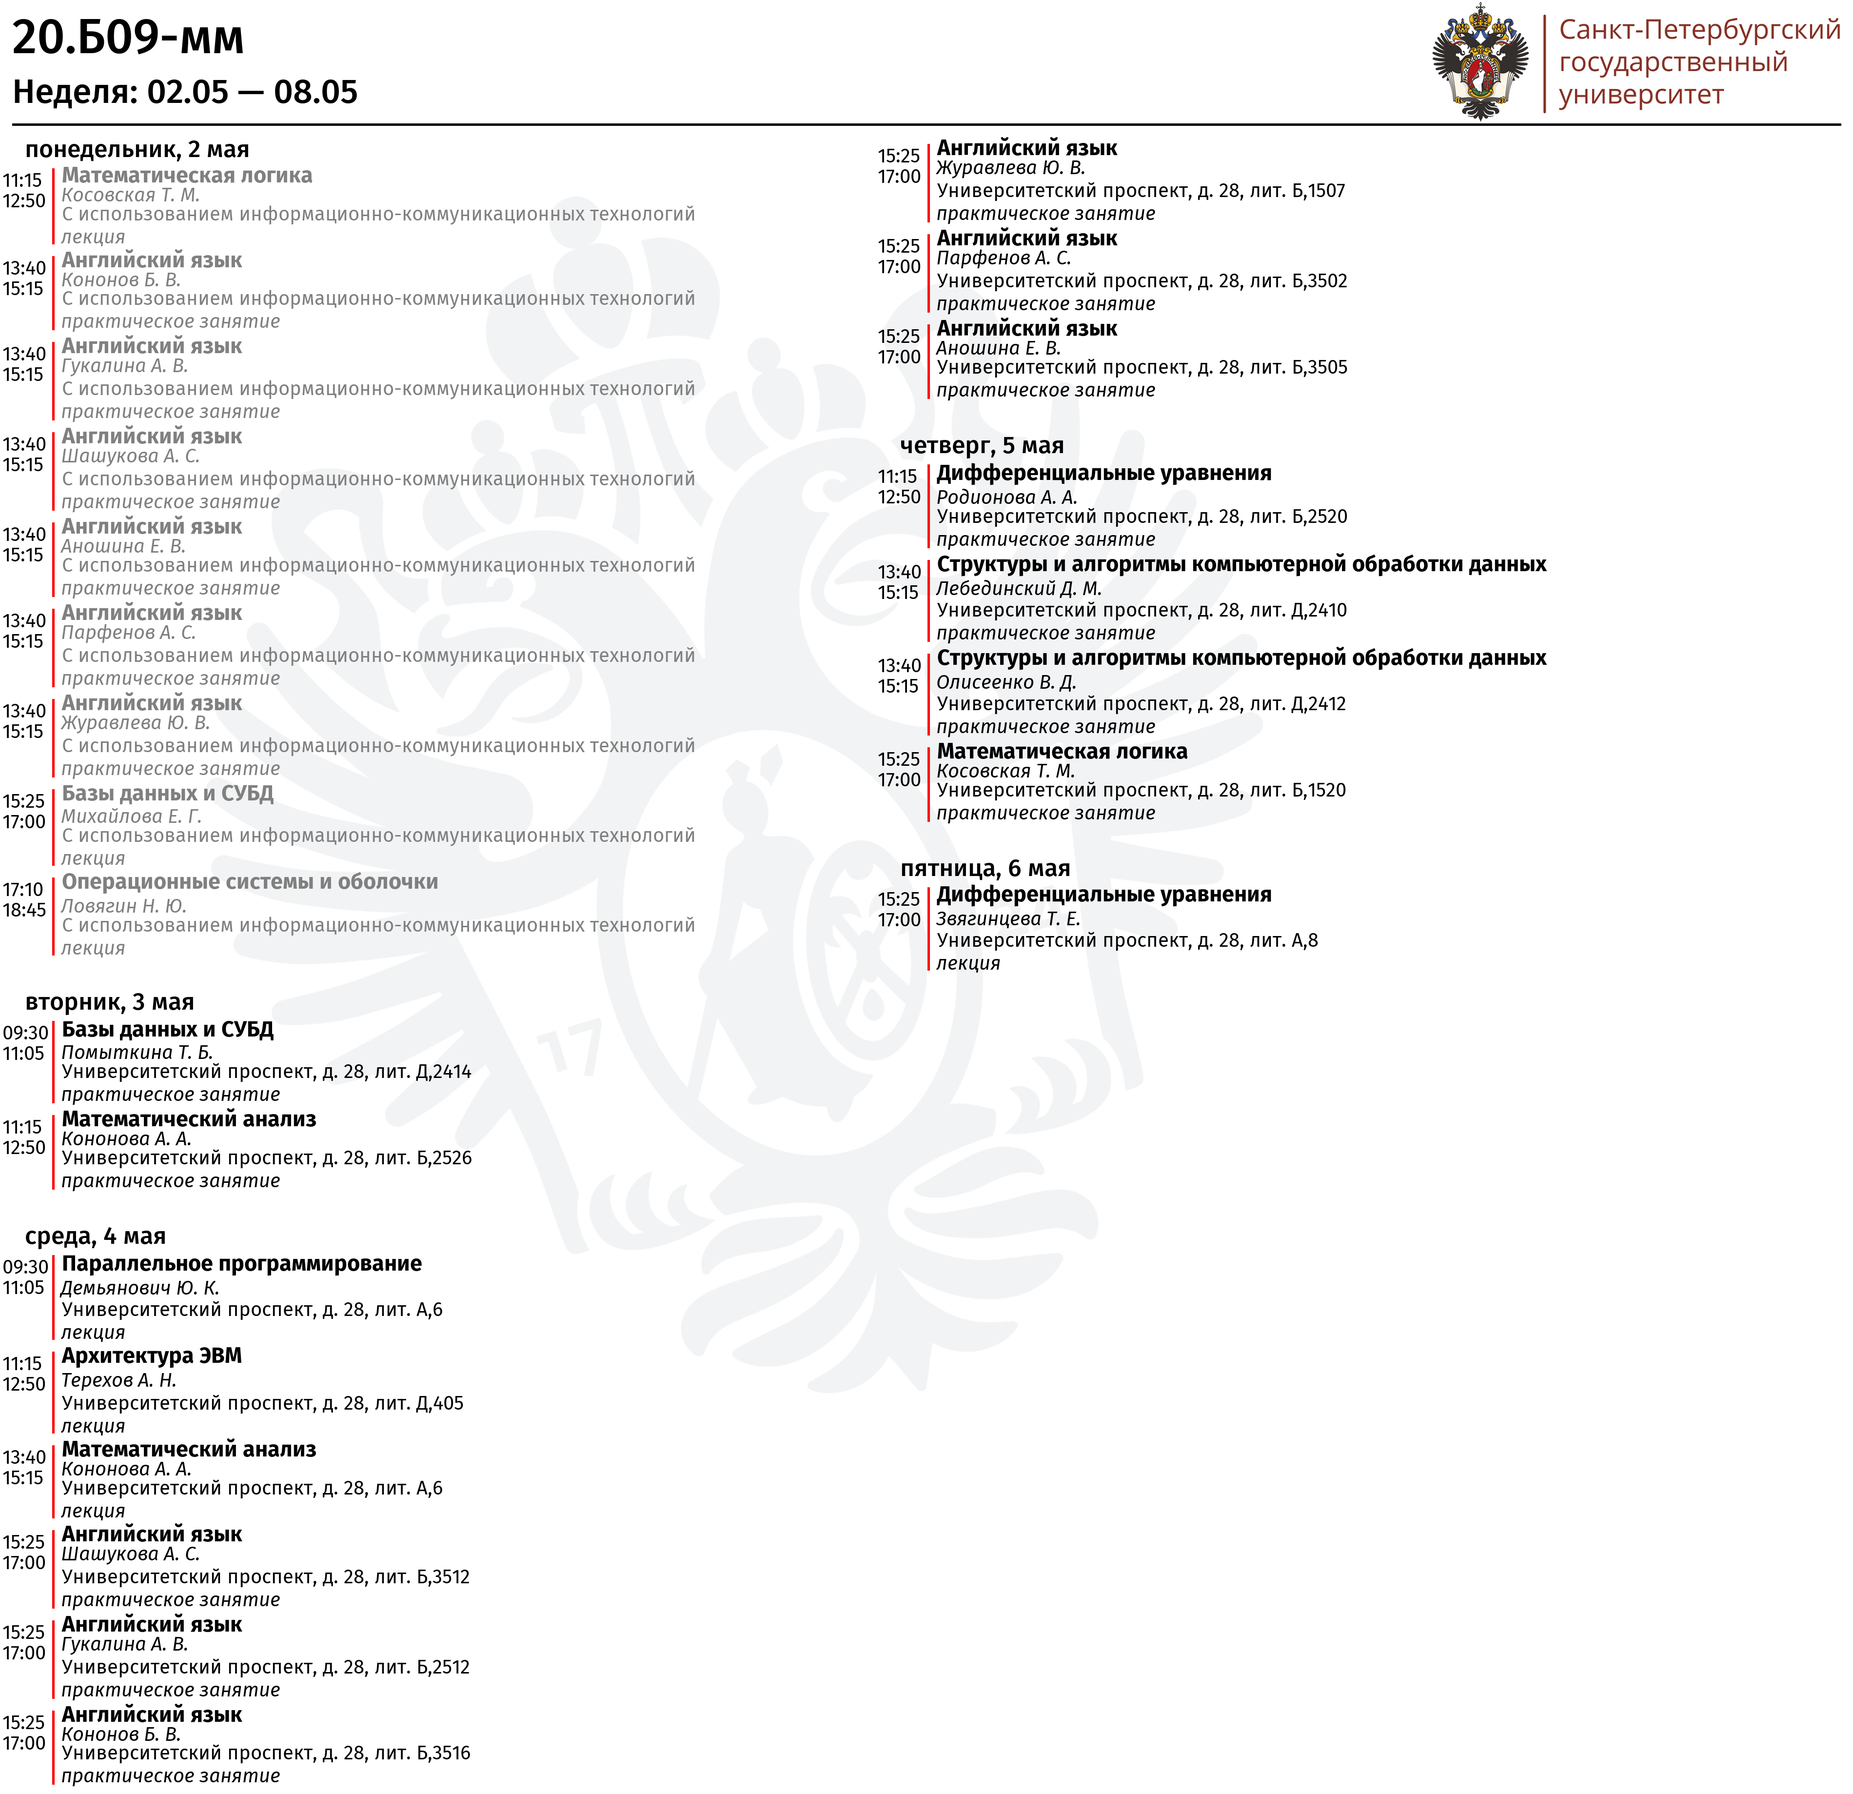
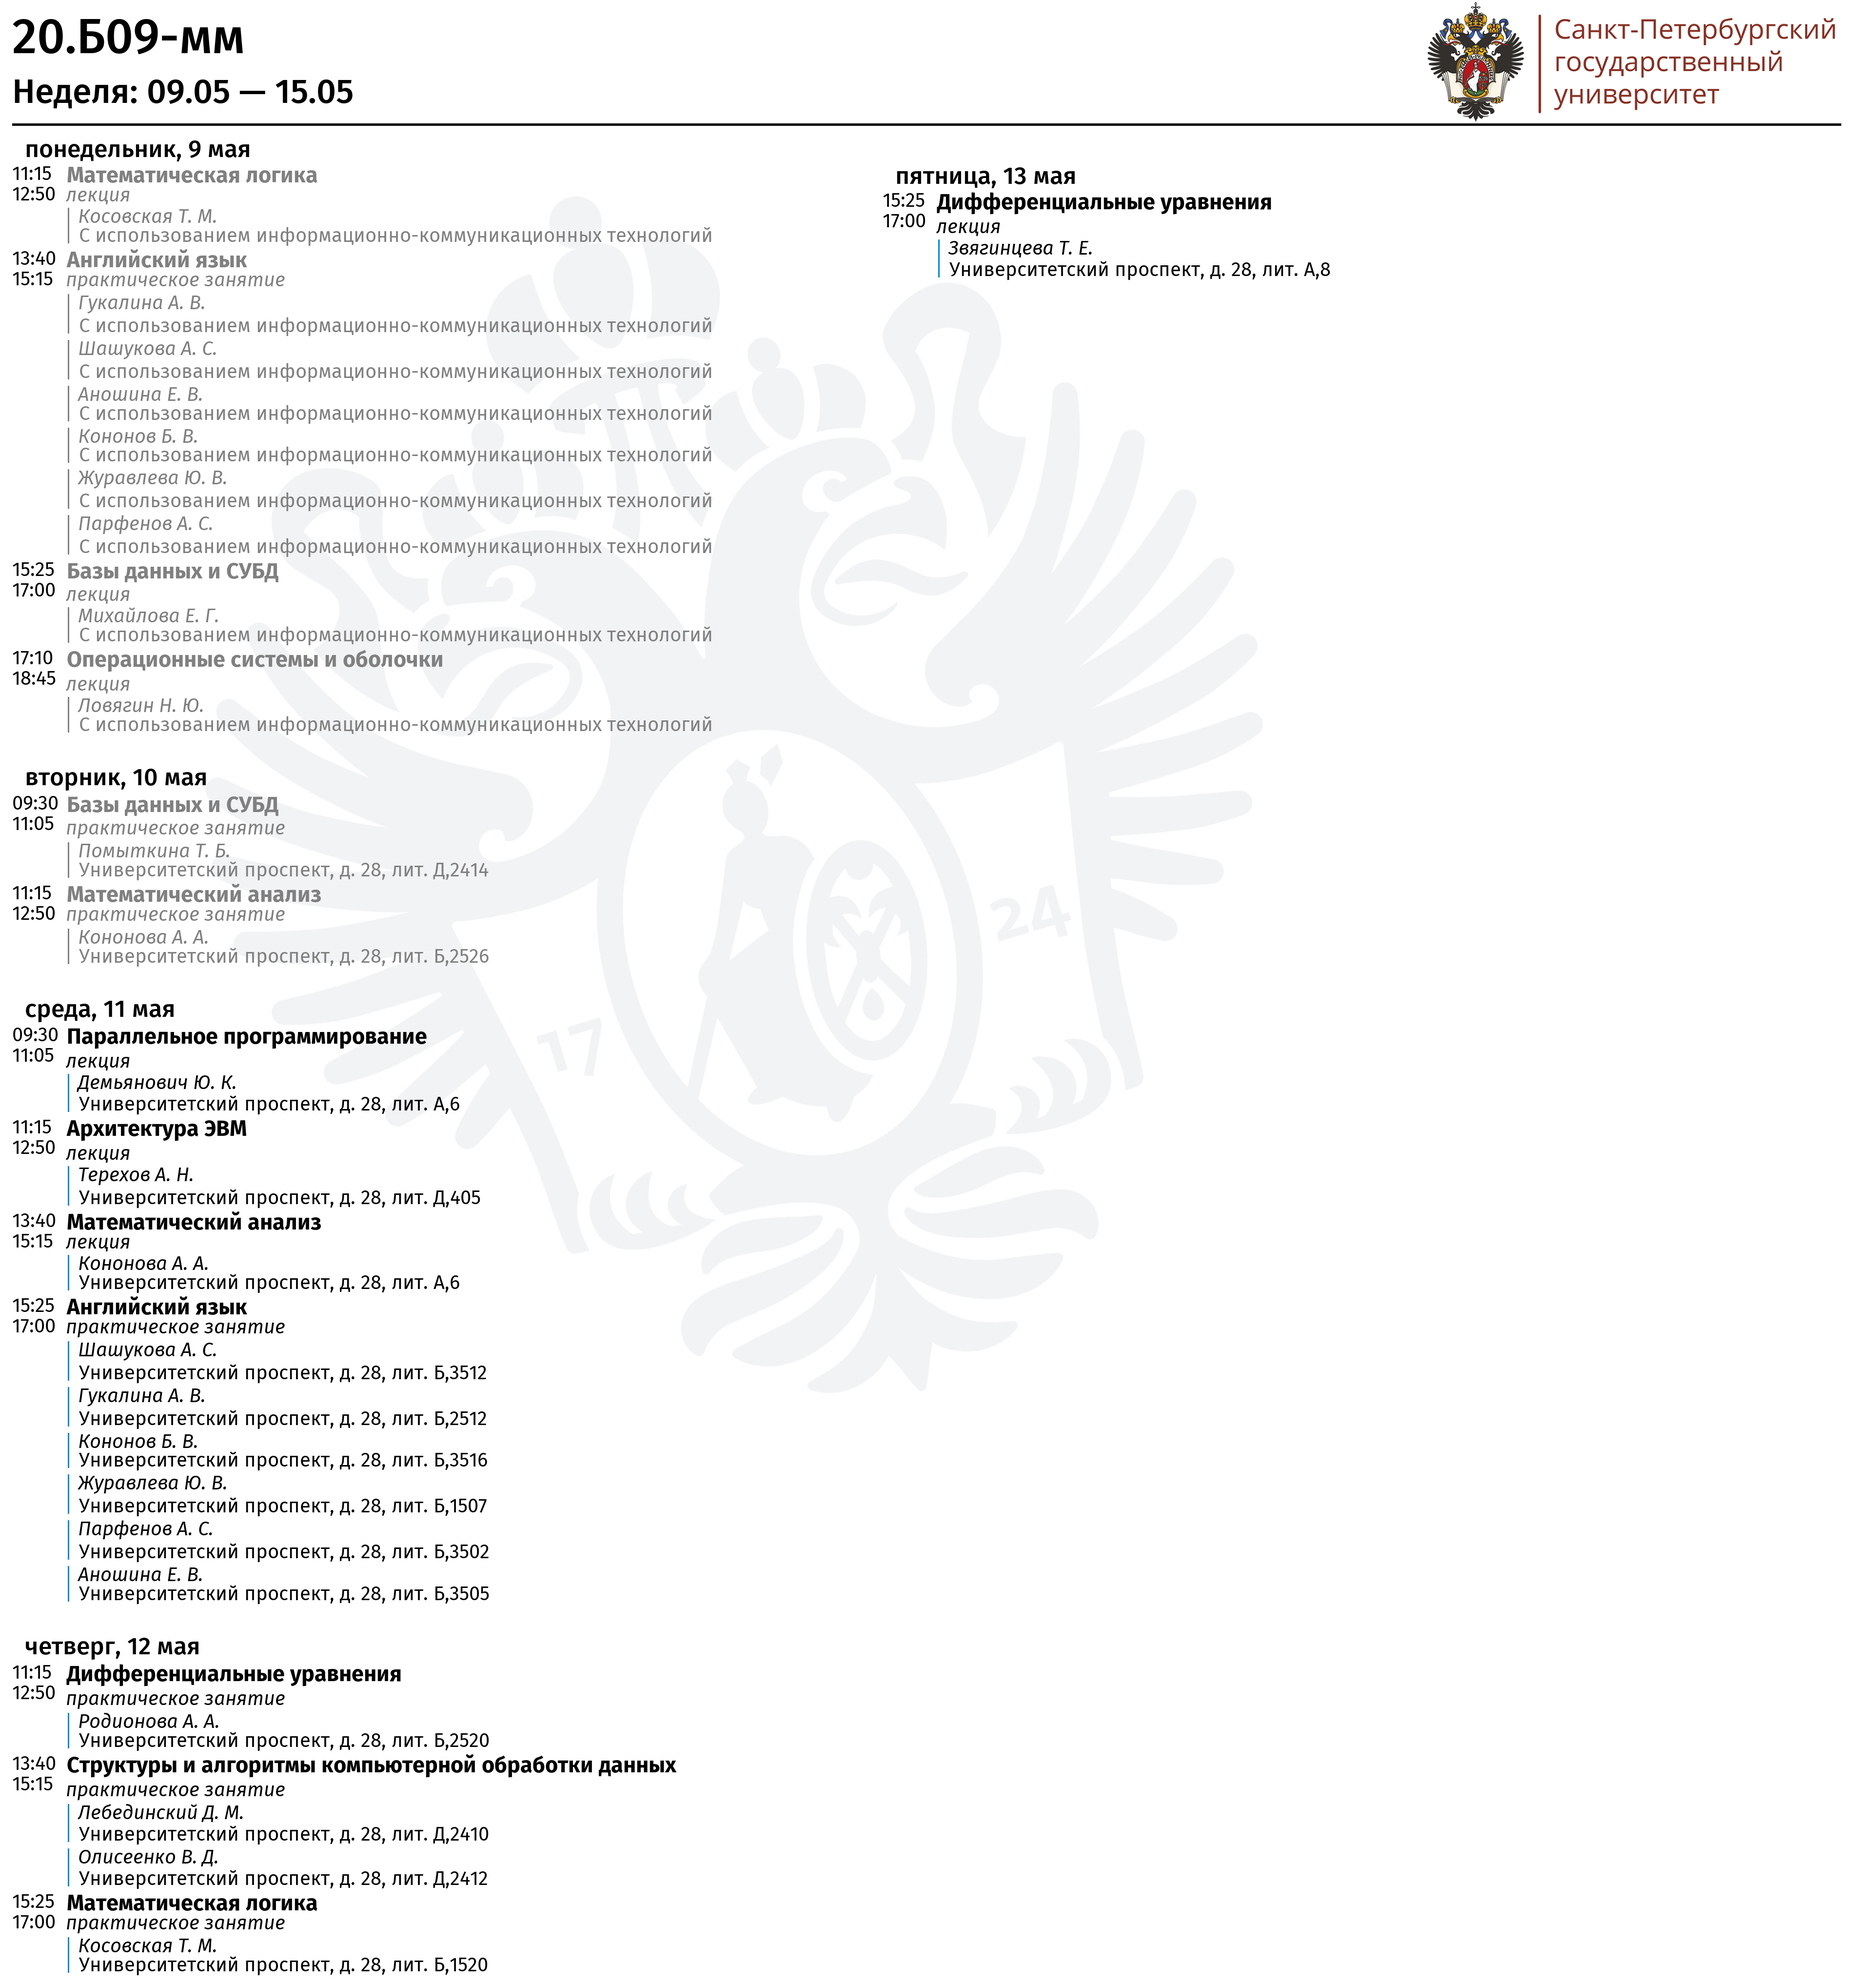
Add: Combining info in an image schedule

diff --git a/utils/image_converter/converter.py b/utils/image_converter/converter.py
@@ -1,10 +1,12 @@
 import textwrap
 from PIL import Image, ImageDraw, ImageFont
 
+from utils.timetable.helpers import is_basic_events_info_identical
+
 
 class TimetableIMG:
     """Class for creating a schedule image from text"""
-    _final_img_width, _final_img_height = 3800, 5500
+    _final_img_width, _final_img_height = 3800, 4300
     _font_h1 = ImageFont.truetype(font="data/converter/FiraSansFonts/FiraSans-Medium.ttf", size=100)
     _font_h2 = ImageFont.truetype(font="data/converter/FiraSansFonts/FiraSans-Medium.ttf", size=70)
     _font_h3 = ImageFont.truetype(font="data/converter/FiraSansFonts/FiraSans-Medium.ttf", size=50)
@@ -29,6 +31,7 @@ class TimetableIMG:
             image.paste(im=image_spbu, box=(image.width - image_spbu.width - 30, 0), mask=image_spbu)
         with Image.open('data/converter/pictures_for_use/spbu_logo.png') as image_spbu_logo:
             image.paste(im=image_spbu_logo, box=(200, 300), mask=image_spbu_logo)
+        image.save('utils/image_converter/output.png')
         return image
 
     def create_image_title(self, title: str, date: str):
@@ -44,51 +47,60 @@ class TimetableIMG:
         self._x = x
         self._y = self._y_foundation = self._y_max = y
 
-    def _draw_text(self, xy: tuple, text: str, font: ImageFont, event_cancelled: bool = False) -> tuple:
+    def _draw_text(self, xy: tuple, text: str, font: ImageFont, event_cancelled: bool = False) -> int:
         image = self._current_image
         draw = ImageDraw.Draw(image)
         x, y = xy
-        lines = textwrap.wrap(text, width=self._final_img_width * 0.9 // font.size)
+        lines = textwrap.wrap(text, width=self._final_img_width * 0.95 // font.size)
         for line in lines:
             width, height = font.getsize(line)
             draw.text((x, y), f"  {line}", font=font, fill="grey" if event_cancelled else "black")
             y += height
-        return x, y
+        return y
 
     def _insert_events(self, draw: ImageDraw, skip: int, indent: int, x: int, y: int, events: list):
-        for event in events:
-            event_time = "{}\n{}".format(event.start_time.strftime("%H:%M"), event.end_time.strftime("%H:%M"))
-            draw.text(xy=(x - indent, y + skip), text=event_time,
-                      font=TimetableIMG._font_reqular, fill="black")
-            x, y = self._draw_text(xy=(x, y), text=event.subject_name,
-                                   font=TimetableIMG._font_bold, event_cancelled=event.is_canceled)
-            x, y = self._draw_text(xy=(x, y), text=event.educator if hasattr(event, "educator") else event.groups,
-                                   font=TimetableIMG._font_italic, event_cancelled=event.is_canceled)
-            x, y = self._draw_text(xy=(x, y), text=event.locations,
-                                   font=TimetableIMG._font_reqular, event_cancelled=event.is_canceled)
-            x, y = self._draw_text(xy=(x, y), text=event.subject_format,
-                                   font=TimetableIMG._font_italic, event_cancelled=event.is_canceled)
-            draw.line(xy=[(x + 10, self._y + skip), (x + 10, y - skip // 2)], fill="red", width=5)
+        for i, event in enumerate(events):
+            if i == 0 or is_basic_events_info_identical(events[i-1], events[i]):
+                event_time = "{}\n{}".format(event.start_time.strftime("%H:%M"), event.end_time.strftime("%H:%M"))
+                draw.text(xy=(x - indent, y), text=event_time,
+                          font=TimetableIMG._font_reqular, fill="black")
+                y = self._draw_text(xy=(x, y), text=event.subject_name,
+                                    font=TimetableIMG._font_bold, event_cancelled=event.is_canceled)
+                y = self._draw_text(xy=(x, y), text=event.subject_format,
+                                    font=TimetableIMG._font_italic, event_cancelled=event.is_canceled)
+            y_for_subject_line = y
+            y = self._draw_text(xy=(x + 25, y), text=event.educator if hasattr(event, "educator") else event.groups,
+                                font=TimetableIMG._font_italic, event_cancelled=event.is_canceled)
+            y = self._draw_text(xy=(x + 25, y), text=event.locations,
+                                font=TimetableIMG._font_reqular, event_cancelled=event.is_canceled)
+            draw.line(xy=[(x + 25, y_for_subject_line + skip // 2), (x + 25, y - skip // 2)],
+                      fill="grey" if event.is_canceled else "#0088cc", width=3)
+
             if y > self._y_max:
                 self._y_max = y
-            if y > self._final_img_width - 300 and x >= self._final_img_width // 2:
-                break
-            if y > self._final_img_width - 300:
-                x, y = self._final_img_width // 2, self._y_foundation
+            if y > self._final_img_height - 300:
+                if x >= self._final_img_width // 2:
+                    self._x, self._y = x, y
+                    break
+                else:
+                    x, y = self._final_img_width // 2, self._y_foundation
             self._x, self._y = x, y + skip
 
     def insert_timetable(self, date: str, events: list):
         image = self._current_image
         draw = ImageDraw.Draw(image)
-        skip, indent = 10, 90
-        x, y = self._draw_text(xy=(self._x, self._y), text=date, font=TimetableIMG._font_h3)
-        x += indent
+        skip, indent = 15, 90
+        if self._y > self._final_img_height - 500 and self._x >= self._final_img_width // 2:
+            return
+        y = self._draw_text(xy=(self._x, self._y), text=date, font=TimetableIMG._font_h3)
+        x = self._x + indent
         self._y += TimetableIMG._font_h3.size + skip
 
         self._insert_events(draw, skip, indent, x, y, events)
-        self._y += TimetableIMG._font_reqular.size + skip
+        self._y += TimetableIMG._font_reqular.size
         self._x -= indent
 
     def crop_image(self):
         image = self._current_image
-        image.crop(box=(0, 0, self._final_img_width, self._y_max + 15)).save(self._path_final_img)
+        image = image.crop(box=(0, 0, self._final_img_width, min(self._y_max + 15, self._final_img_height)))
+        image.save(self._path_final_img)

diff --git a/utils/timetable/get_group_timetable.py b/utils/timetable/get_group_timetable.py
@@ -102,6 +102,6 @@ async def group_timetable_parser_day(day: date, events: list[GroupEvent]) -> str
             day_timetable += f"    🕟 <u>{event.start_time.strftime('%H:%M')}-{event.end_time.strftime('%H:%M')}</u>\n" \
                              f"    ✍🏻 Формат: <i>{event.subject_format}</i>\n"
 
-        day_timetable += f"    ╔🧑🏫 <i>{event.educator}</i>\n" \
-                         f"    ╚🚩 Место: <i>{event.locations}</i>\n"
+        day_timetable += f"    ╔ 🧑🏫 <i>{event.educator}</i>\n" \
+                         f"    ╚ 🚩<i>{event.locations}</i>\n"
     return day_timetable

diff --git a/utils/timetable/get_teacher_timetable.py b/utils/timetable/get_teacher_timetable.py
@@ -106,6 +106,6 @@ async def teacher_timetable_parser_day(day: date, events: list[TeacherEvent]) ->
             day_timetable += f"    🕟 <u>{event.start_time.strftime('%H:%M')}-{event.end_time.strftime('%H:%M')}</u>\n" \
                              f"    ✍🏻 Формат: <i>{event.subject_format}</i>\n"
 
-        day_timetable += f"    ╔🎓 Группы: <i>{event.groups}</i>\n" \
-                         f"    ╚🚩 Место: <i>{event.locations}</i>\n"
+        day_timetable += f"    ╔ 🎓 <i>{event.groups}</i>\n" \
+                         f"    ╚ 🚩 <i>{event.locations}</i>\n"
     return day_timetable

diff --git a/README.md b/README.md
@@ -26,8 +26,8 @@
 + Getting a group schedule using program navigation
 + Getting a teacher's schedule by last name
 + Subscribe to the group/teacher schedule
-! Getting a schedule with an image
-! Updating the schedule in the database
++ Getting a schedule with an image
++ Updating the schedule in the database
 - Notifying the user about the upcoming lesson
 - Notifying the user about changes in the schedule
 ```
